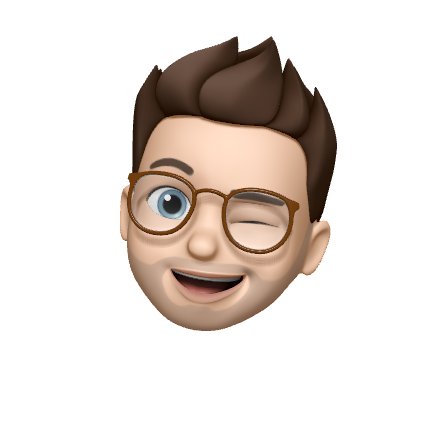
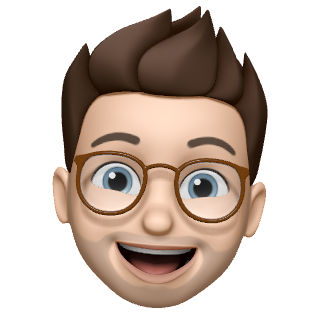
Vertically centered intro component and added Resume Link

diff --git a/src/App.vue b/src/App.vue
@@ -1,19 +1,19 @@
 <template>
   <v-app>
     <v-overlay
-      :value="drawer"
-      z-index="4"
-      opacity="0.05"
+        :value="drawer"
+        opacity="0.05"
+        z-index="4"
     >
     </v-overlay>
     <v-navigation-drawer
-      v-model="drawer"
-      app
-      clipped
-      hide-overlay
-      :style="{ top: $vuetify.application.top + 'px', zIndex: 4 }"
+        v-model="drawer"
+        :style="{ top: $vuetify.application.top + 'px', zIndex: 4 }"
+        app
+        clipped
+        hide-overlay
     >
-    <v-list-item>
+      <v-list-item>
         <v-list-item-content>
           <v-list-item-title class="text-h6">
             Scroll to
@@ -23,13 +23,13 @@
 
       <v-divider></v-divider>
       <v-list
-        dense
-        nav
+          dense
+          nav
       >
         <v-list-item
-          v-for="item in items"
-          :key="item.title"
-          link
+            v-for="item in items"
+            :key="item.title"
+            link
         >
           <v-list-item-icon>
             <v-icon>{{ item.icon }}</v-icon>
@@ -43,25 +43,23 @@
     </v-navigation-drawer>
 
     <v-app-bar
-      clipped-left
-      app
-      dense
-      flat
-      hide-on-scroll
-      color="white"
+        app
+        clipped-left
+        color="white"
+        dense
+        flat
+        hide-on-scroll
     >
       <v-app-bar-nav-icon @click.stop="drawer = !drawer"></v-app-bar-nav-icon>
-      <!-- <v-toolbar-title>Fletcher Dick</v-toolbar-title> -->
     </v-app-bar>
 
-    <v-main id="app">
+    <v-main id="app" class="pa-2 mx-auto">
       <main-view/>
     </v-main>
   </v-app>
 </template>
 
 <script>
-// import HelloWorld from './components/HelloWorld';
 import MainView from './views/MainView.vue';
 
 export default {
@@ -75,22 +73,21 @@ export default {
     return {
       drawer: false,
       items: [
-            { title: 'Dashboard', icon: 'mdi-view-dashboard' },
-            { title: 'Photos', icon: 'mdi-image' },
-            { title: 'About', icon: 'mdi-help-box' },
-          ]
-      }
+        {title: 'Dashboard', icon: 'mdi-view-dashboard'},
+        {title: 'Photos', icon: 'mdi-image'},
+        {title: 'About', icon: 'mdi-help-box'},
+      ]
+    }
   }
-    
+
 };
 </script>
 
 <style>
 #app {
-  font-family: Avenir, Helvetica, Arial, sans-serif;
+  font-family: 'Open Sans', sans-serif;
   -webkit-font-smoothing: antialiased;
   -moz-osx-font-smoothing: grayscale;
-  text-align: center;
   color: #2c3e50;
 }
 </style>

diff --git a/src/views/MainView.vue b/src/views/MainView.vue
@@ -1,11 +1,53 @@
 <template>
   <!-- Introduction section -->
-  <div>
-    <img src="../assets/memoji_3.png" width="300">
-    <headline text="Fletcher Dick" />
-    <div>📍 Christchurch, New Zealand</div>
-    <div>Welcome to my portfolio! There's going to be a lot changing around here 😮</div>
-  </div>
+  <v-container>
+    <v-container fill-height>
+      <v-row
+          align="center"
+          fluid
+          style="height: 100vh;"
+      >
+        <div class="pb-16 mt-n16">
+          <v-row>
+            <v-col justify="center">
+              <v-img alt="An image of my Apple Memoji" class="mx-auto" src="../assets/memoji_2.png"
+                     width="250px"/>
+            </v-col>
+          </v-row>
+          <v-row class="mb-10" justify="center">
+            <headline text="Fletcher Dick"/>
+          </v-row>
+          <v-row justify="center">📍 Christchurch, New Zealand</v-row>
+          <v-row class="text-center" justify="center">
+            Welcome to my portfolio! There's going to be a lot changing around here 😮
+          </v-row>
+          <v-row class="mt-16" justify="center">
+            <v-btn
+                class="ma-2"
+                color="indigo"
+                href="https://drive.google.com/file/d/1NdNbbqZVTVeapiALfIDcFvOY0rprdotP/view?usp=sharing"
+                outlined
+                target="_blank"
+            >
+              My Resume
+            </v-btn>
+          </v-row>
+        </div>
+      </v-row>
+
+    </v-container>
+
+    <headline text="Fletcher Dick"/>
+    <headline text="Fletcher Dick"/>
+    <headline text="Fletcher Dick"/>
+    <headline text="Fletcher Dick"/>
+    <headline text="Fletcher Dick"/>
+    <headline text="Fletcher Dick"/>
+    <headline text="Fletcher Dick"/>
+    <headline text="Fletcher Dick"/>
+    <headline text="Fletcher Dick"/>
+    <headline text="Fletcher Dick"/>
+  </v-container>
 </template>
 
 <script>
@@ -20,5 +62,6 @@ export default {
 </script>
 
 <style scoped>
+
 
 </style>

diff --git a/src/plugins/vuetify.js b/src/plugins/vuetify.js
@@ -3,5 +3,4 @@ import Vuetify from 'vuetify/lib/framework';
 
 Vue.use(Vuetify);
 
-export default new Vuetify({
-});
+export default new Vuetify({});

diff --git a/README.md b/README.md
@@ -1,24 +1,29 @@
 # portfolio
 
 ## Project setup
+
 ```
 npm install
 ```
 
 ### Compiles and hot-reloads for development
+
 ```
 npm run serve
 ```
 
 ### Compiles and minifies for production
+
 ```
 npm run build
 ```
 
 ### Lints and fixes files
+
 ```
 npm run lint
 ```
 
 ### Customize configuration
+
 See [Configuration Reference](https://cli.vuejs.org/config/).
